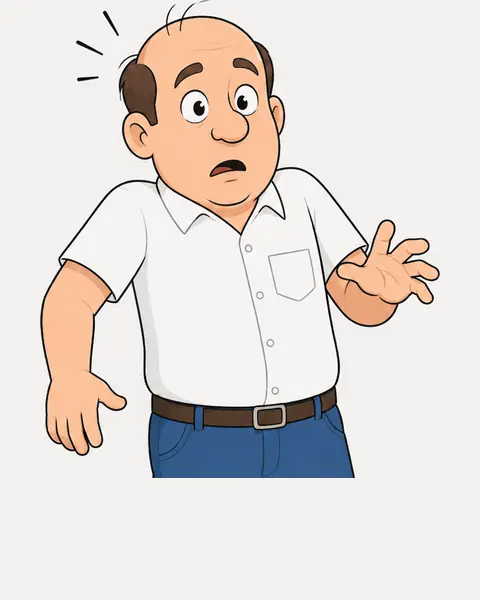
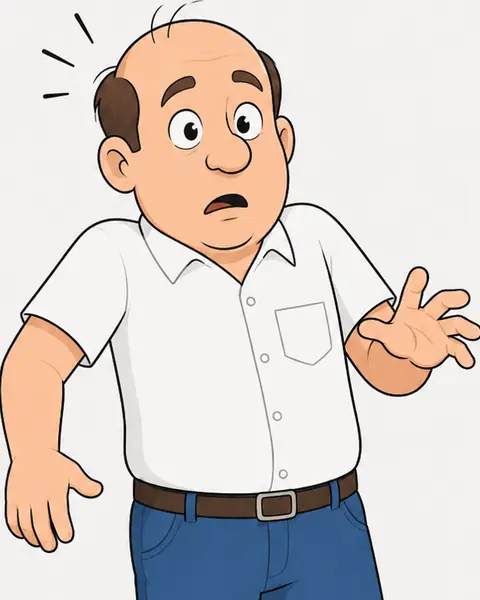
Rescale March/Homer/Bart poke poses to fill card; shorten reaction to 0.5s (task 030)
- Re-convert march/homer/bart poked frames from cover-fill sources (no edge
  gaps; march art now shows only Marge). lisa/maggie unchanged.
- Poke reaction duration 1000ms -> 500ms per operator feedback.

diff --git a/poke.js b/poke.js
@@ -1,7 +1,7 @@
 /*
   Card "poke" reaction (experiment/live-status branch, task 030).
   Clicking or tapping an agent card swaps its avatar to the agent's "poked" pose
-  for ~1 second, then reverts to the pose of the card's CURRENT live status
+  for ~0.5 second, then reverts to the pose of the card's CURRENT live status
   (data-status may have changed meanwhile, so it is read at revert time).
 
   Visual only: no message is sent to the agent yet. The real "notify the agent"
@@ -15,7 +15,7 @@
   "use strict";
 
   var AGENTS = ["march", "homer", "bart", "lisa", "maggie"];
-  var POKE_MS = 1000; // how long the poked pose stays up
+  var POKE_MS = 500; // how long the poked pose stays up (~0.5s)
   var FADE_MS = 110; // quick crossfade so the reaction feels responsive
 
   // Offline has no artwork; it reuses the calm "resting" pose (mirrors live-status.js).